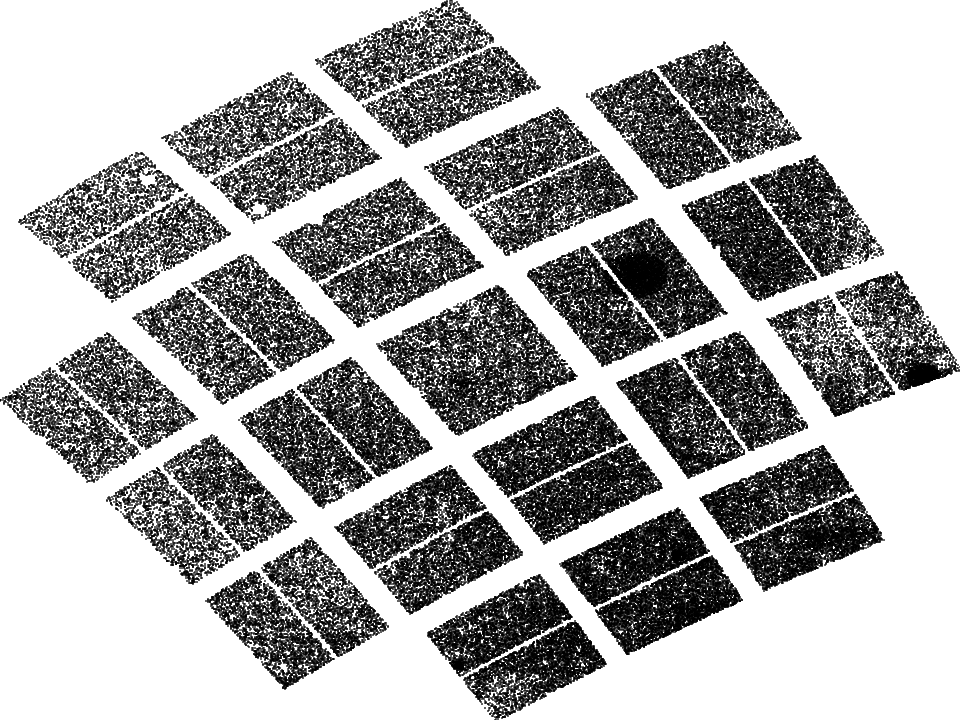
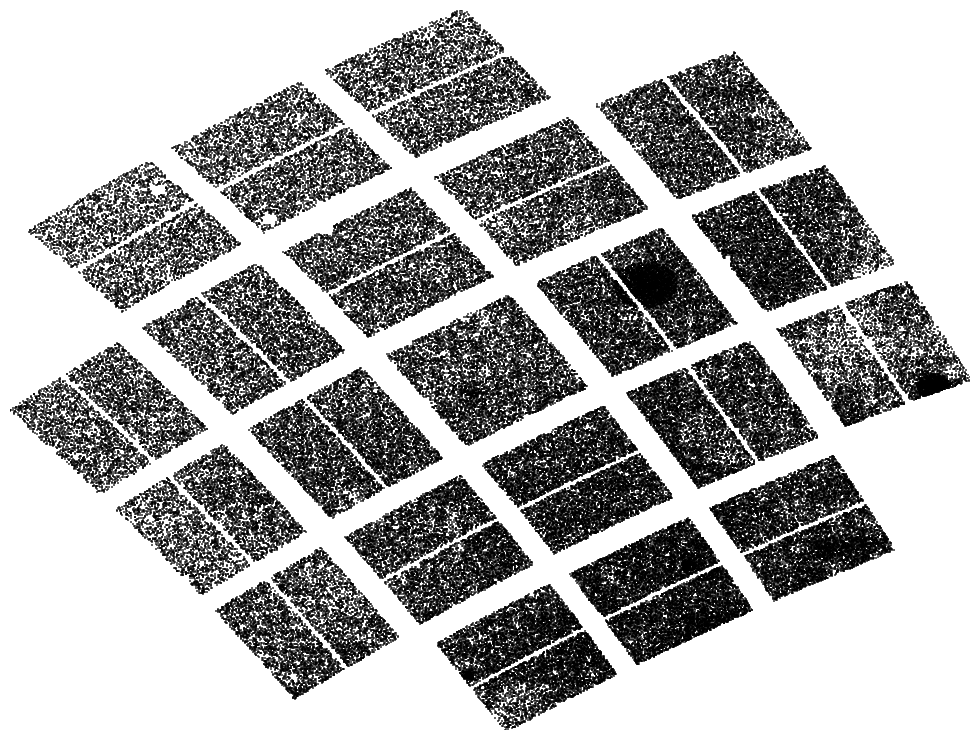
Adjusting layout on homepage

diff --git a/app/assets/stylesheets/plot.css.scss b/app/assets/stylesheets/plot.css.scss
@@ -21,10 +21,6 @@
   clear: both;
 }
 
-img {
-  margin: 10px;
-}
-
 .site_title {
   font-size: 62px;
   margin: 10px 0 0 0;
@@ -33,4 +29,23 @@ img {
 
 .footer {
   margin-top: 30px;
+}
+
+.card {
+  position: relative;
+  border: 1px solid #ccc;
+  @include border-radius(6px);
+  h2 {
+    position: absolute;
+    margin-left: 20px;
+  }
+  a {
+    display: block;
+  } 
+  img {
+    margin-top: 5px;
+  }
+  .btn-large {
+    @include border-radius(0 0 6px 6px)
+  }
 }
